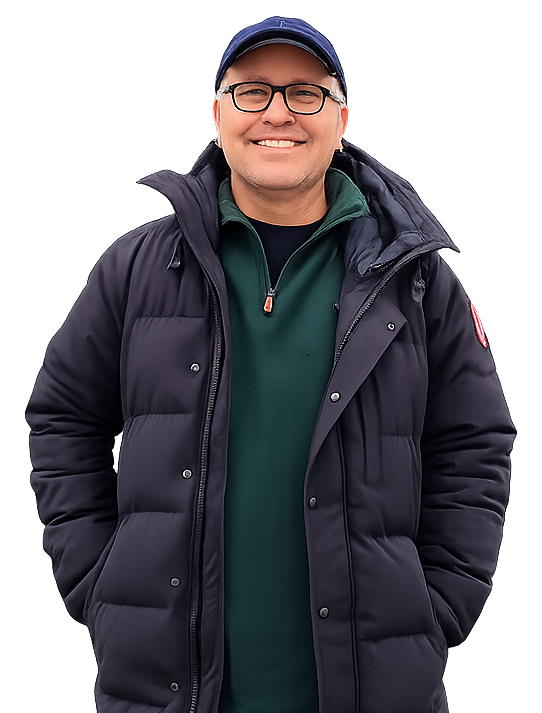
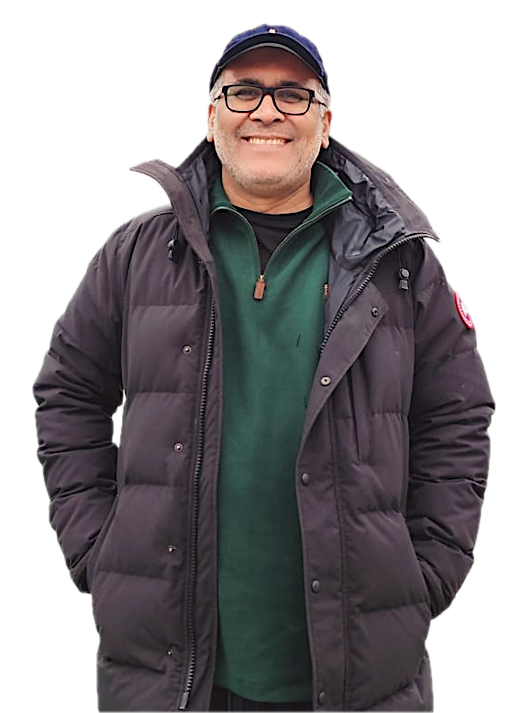
ready for first phase deployement

diff --git a/app/not-found.tsx b/app/not-found.tsx
@@ -1,0 +1,124 @@
+"use client";
+
+import { useRouter } from "next/navigation";
+import { useEffect, useState } from "react";
+
+export default function NotFound() {
+  const router = useRouter();
+  const [mounted, setMounted] = useState(false);
+
+  useEffect(() => {
+    setMounted(true);
+  }, []);
+
+  return (
+    <div className="min-h-screen bg-gradient-to-br from-[#0F2F35] via-[#1B505B] to-[#0F2F35] flex items-center justify-center px-4 overflow-hidden">
+      <div className="text-center relative">
+        {/* Animated Background Circles */}
+        <div className="absolute inset-0 -z-10">
+          <div className="absolute top-1/2 left-1/2 -translate-x-1/2 -translate-y-1/2 w-[300px] h-[300px] bg-[#2F7C8A]/20 rounded-full blur-3xl animate-pulse" />
+          <div className="absolute top-1/2 left-1/2 -translate-x-1/2 -translate-y-1/2 w-[400px] h-[400px] bg-[#1B505B]/10 rounded-full blur-3xl animate-pulse delay-1000" />
+        </div>
+
+        {/* 404 Number with Animation */}
+        <div
+          className={`transition-all duration-1000 ${
+            mounted ? "opacity-100 translate-y-0" : "opacity-0 -translate-y-10"
+          }`}
+        >
+          <h1 className="text-[120px] md:text-[180px] lg:text-[220px] font-bold text-white/10 leading-none select-none">
+            404
+          </h1>
+        </div>
+
+        {/* Content */}
+        <div
+          className={`-mt-16 md:-mt-24 transition-all duration-1000 delay-300 ${
+            mounted ? "opacity-100 translate-y-0" : "opacity-0 translate-y-10"
+          }`}
+        >
+          {/* Animated Icon */}
+          <div className="mb-8 flex justify-center">
+            <div className="relative">
+              <div className="w-24 h-24 bg-[#E8F3F4] rounded-full flex items-center justify-center animate-bounce">
+                <svg
+                  className="w-12 h-12 text-[#1B505B]"
+                  fill="none"
+                  stroke="currentColor"
+                  viewBox="0 0 24 24"
+                >
+                  <path
+                    strokeLinecap="round"
+                    strokeLinejoin="round"
+                    strokeWidth={2}
+                    d="M9.172 16.172a4 4 0 015.656 0M9 10h.01M15 10h.01M21 12a9 9 0 11-18 0 9 9 0 0118 0z"
+                  />
+                </svg>
+              </div>
+              {/* Ripple Effect */}
+              <div className="absolute inset-0 w-24 h-24 bg-[#E8F3F4] rounded-full animate-ping opacity-20" />
+            </div>
+          </div>
+
+          <h2 className="text-3xl md:text-5xl font-bold text-white mb-4">
+            Page Not Found
+          </h2>
+          <p className="text-gray-300 text-lg md:text-xl mb-8 max-w-md mx-auto">
+            Oops! The page you're looking for seems to have gone missing in the
+            digital void.
+          </p>
+
+          {/* Buttons */}
+          <div className="flex flex-col sm:flex-row gap-4 justify-center items-center">
+            <button
+              onClick={() => router.push("/")}
+              className="group relative px-8 py-4 bg-white text-[#1B505B] rounded-lg font-semibold text-lg overflow-hidden transition-all duration-300 hover:scale-105 hover:shadow-2xl"
+            >
+              <span className="relative z-10">Go Home</span>
+              <div className="absolute inset-0 bg-[#E8F3F4] transform scale-x-0 group-hover:scale-x-100 transition-transform origin-left duration-300" />
+            </button>
+
+            <button
+              onClick={() => router.back()}
+              className="px-8 py-4 border-2 border-white/30 text-white rounded-lg font-semibold text-lg hover:bg-white/10 hover:border-white/50 transition-all duration-300 hover:scale-105"
+            >
+              Go Back
+            </button>
+          </div>
+        </div>
+
+        {/* Floating Elements */}
+        <div
+          className={`absolute top-10 left-10 w-4 h-4 bg-[#E8F3F4] rounded-full transition-all duration-1000 delay-500 ${
+            mounted ? "opacity-60 translate-y-0" : "opacity-0 -translate-y-10"
+          }`}
+          style={{ animation: "float 3s ease-in-out infinite" }}
+        />
+        <div
+          className={`absolute bottom-20 right-10 w-6 h-6 bg-[#2F7C8A] rounded-full transition-all duration-1000 delay-700 ${
+            mounted ? "opacity-40 translate-y-0" : "opacity-0 translate-y-10"
+          }`}
+          style={{ animation: "float 4s ease-in-out infinite reverse" }}
+        />
+        <div
+          className={`absolute top-1/3 right-20 w-3 h-3 bg-white rounded-full transition-all duration-1000 delay-900 ${
+            mounted ? "opacity-50 translate-y-0" : "opacity-0 -translate-y-10"
+          }`}
+          style={{ animation: "float 5s ease-in-out infinite" }}
+        />
+      </div>
+
+      <style jsx>{`
+        @keyframes float {
+          0%,
+          100% {
+            transform: translateY(0px);
+          }
+          50% {
+            transform: translateY(-20px);
+          }
+        }
+      `}</style>
+    </div>
+  );
+}

diff --git a/components/BlogSection.tsx b/components/BlogSection.tsx
@@ -1,0 +1,107 @@
+"use client";
+
+import { useState } from "react";
+import { X } from "lucide-react";
+
+export default function VlogSection() {
+  const [selectedVideo, setSelectedVideo] = useState<string | null>(null);
+
+  const videos = [
+    {
+      id: 1,
+      title: "EDI Integration Best Practices",
+      thumbnail: "https://img.youtube.com/vi/Hd4Xony9vpM/maxresdefault.jpg",
+      videoId: "Hd4Xony9vpM",
+    },
+    {
+      id: 2,
+      title: "ERP System Implementation Guide",
+      thumbnail: "https://img.youtube.com/vi/N3g8-aiDtW0/maxresdefault.jpg",
+      videoId: "N3g8-aiDtW0",
+    },
+    {
+      id: 3,
+      title: "Supply Chain Automation Solutions",
+      thumbnail: "https://img.youtube.com/vi/i8nr_dKCEgk/maxresdefault.jpg",
+      videoId: "i8nr_dKCEgk",
+    },
+  ];
+
+  return (
+    <section id="vlogs" className="w-full bg-[#E8F3F4] py-20">
+      <div className="container mx-auto px-6">
+        {/* Section Header */}
+        <div className="text-center mb-14">
+          <h2 className="text-3xl md:text-4xl font-bold text-[#12373F] mb-4">
+            Latest Insights & Tutorials
+          </h2>
+          <p className="text-gray-600 max-w-2xl mx-auto">
+            Watch our expert videos on EDI integration, ERP systems, and supply
+            chain automation best practices.
+          </p>
+        </div>
+
+        {/* Video Grid */}
+        <div className="grid grid-cols-1 md:grid-cols-2 lg:grid-cols-3 gap-8">
+          {videos.map((video) => (
+            <div
+              key={video.id}
+              className="bg-white rounded-2xl overflow-hidden shadow-md"
+            >
+              {/* Thumbnail */}
+              <div 
+                className="relative aspect-video overflow-hidden cursor-pointer group hover:shadow-2xl transition-all duration-300 transform hover:-translate-y-2"
+                onClick={() => setSelectedVideo(video.videoId)}
+              >
+                <img
+                  src={video.thumbnail}
+                  alt={video.title}
+                  className="w-full h-full object-cover group-hover:scale-110 transition-transform duration-300"
+                />
+                {/* Play Button Overlay */}
+                <div className="absolute inset-0 bg-[#1B505B]/40 flex items-center justify-center group-hover:bg-[#1B505B]/60 transition">
+                  <div className="w-16 h-16 bg-white rounded-full flex items-center justify-center group-hover:scale-110 transition-transform">
+                    <div className="w-0 h-0 border-t-8 border-t-transparent border-l-12 border-l-[#1B505B] border-b-8 border-b-transparent ml-1" />
+                  </div>
+                </div>
+              </div>
+            </div>
+          ))}
+        </div>
+      </div>
+
+      {/* Video Popup Modal */}
+      {selectedVideo && (
+        <div
+          className="fixed inset-0 bg-black/80 z-50 flex items-center justify-center p-4"
+          onClick={() => setSelectedVideo(null)}
+        >
+          <div
+            className="relative w-full max-w-4xl aspect-video bg-black rounded-lg overflow-hidden"
+            onClick={(e) => e.stopPropagation()}
+          >
+            {/* Close Button */}
+            <button
+              onClick={() => setSelectedVideo(null)}
+              className="absolute top-4 right-4 z-10 bg-white/90 hover:bg-white rounded-full p-2 transition"
+            >
+              <X size={24} className="text-[#1B505B]" />
+            </button>
+
+            {/* YouTube Iframe */}
+            <iframe
+              width="100%"
+              height="100%"
+              src={`https://www.youtube.com/embed/${selectedVideo}?autoplay=1`}
+              title="YouTube video player"
+              frameBorder="0"
+              allow="accelerometer; autoplay; clipboard-write; encrypted-media; gyroscope; picture-in-picture"
+              allowFullScreen
+              className="w-full h-full"
+            />
+          </div>
+        </div>
+      )}
+    </section>
+  );
+}

diff --git a/components/Navbar.tsx b/components/Navbar.tsx
@@ -45,16 +45,40 @@ export default function Navbar() {
     return () => window.removeEventListener('scroll', handleScroll);
   }, [pathname]);
 
-  const handleMenuClick = (item) => {
-    setActiveItem(item);
-    if (item === 'Services') {
-      const section = document.getElementById('consulting-services');
+  const handleContactClick = () => {
+    if (pathname !== '/') {
+      router.push('/#subscribe');
+    } else {
+      const section = document.getElementById('subscribe');
       if (section) {
         section.scrollIntoView({ behavior: 'smooth' });
-        setIsOpen(false);
-      } else {
-        router.push('/#consulting-services');
       }
+    }
+    setIsOpen(false);
+  };
+
+  const handleMenuClick = (item: string) => {
+    setActiveItem(item);
+    if (item === 'Services') {
+      if (pathname !== '/') {
+        router.push('/#consulting-services');
+      } else {
+        const section = document.getElementById('consulting-services');
+        if (section) {
+          section.scrollIntoView({ behavior: 'smooth' });
+        }
+      }
+      setIsOpen(false);
+    } else if (item === 'Blogs') {
+      if (pathname !== '/') {
+        router.push('/#vlogs');
+      } else {
+        const section = document.getElementById('vlogs');
+        if (section) {
+          section.scrollIntoView({ behavior: 'smooth' });
+        }
+      }
+      setIsOpen(false);
     } else if (item === 'Home') {
       router.push('/');
     } else if (item === 'About') {
@@ -95,7 +119,7 @@ export default function Navbar() {
           </div>
 
           {/* Contact Button */}
-          <button onClick={() => router.push('/contact')} className="hidden min-[760px]:flex items-center gap-2 font-medium hover:opacity-80 transition-opacity text-xl xl:text-[24px]">
+          <button onClick={handleContactClick} className="hidden min-[760px]:flex items-center gap-2 font-medium hover:opacity-80 transition-opacity text-xl xl:text-[24px]">
             Contact us <span>→</span>
           </button>
 
@@ -123,7 +147,7 @@ export default function Navbar() {
                   {item}
                 </button>
               ))}
-              <button onClick={() => router.push('/contact')} className="block hover:opacity-80 transition-opacity w-full text-left">
+              <button onClick={handleContactClick} className="block hover:opacity-80 transition-opacity w-full text-left">
                 Contact us <span>→</span>
               </button>
             </div>

diff --git a/components/HeroSection.tsx b/components/HeroSection.tsx
@@ -6,6 +6,17 @@ import HeroTabs from "@/components/HeroTabs";
 export default function HeroSection() {
   return (
     <section className="relative bg-[#1B505B] overflow-hidden pt-[88px] md:max-h-[760px] md:min-h-[640px] lg:min-h-[810px] flex">
+      {/* Blurred Random Squares */}
+      <div className="absolute inset-0 pointer-events-none">
+        <div className="absolute top-[10%] left-[0%] w-20 h-20 md:w-20 md:h-20 lg:w-48 lg:h-48 bg-[#0F2F35]/40 blur-xl" />
+
+        <div className="absolute top-[70%] left-[5%] w-24 h-24 md:w-32 md:h-32 bg-[#0F2F35]/30 blur-xl" />
+        <div className="absolute top-[20%] right-[15%] w-28 h-28 md:w-36 md:h-36 lg:w-44 lg:h-44 bg-[#0F2F35]/35 blur-xl" />
+        <div className="absolute bottom-[5%] right-[20%] w-20 h-20 md:w-28 md:h-28 bg-[#0F2F35]/40 blur-xl" />
+        <div className="absolute top-[35%] left-[40%] w-16 h-16 md:w-24 md:h-24 bg-[#0F2F35]/25 blur-xl max-[760px]:hidden" />
+        <div className="absolute top-[40%] left-[85%] w-32 h-32 md:w-40 md:h-40 lg:w-48 lg:h-48 bg-[#0F2F35]/40 blur-xl" />
+      </div>
+      
       {/* CONTENT */}
       <div className="container mx-auto px-6 py-24 max-[760px]:px-4 max-[760px]:py-8 relative z-20  md:flex md:items-center">
         <div className="gap-12 items-center w-full max-[760px]:flex max-[760px]:flex-col">
@@ -44,7 +55,7 @@ export default function HeroSection() {
             <div className="absolute right-0 top-[88px] z-[-1] max-[760px]:hidden">
               <div className="relative flex items-end justify-end">
                 <Image
-                  src="/client_img_copy.png"
+                  src="/client_img.png"
                   alt="Ather Shahidi"
                   width={500}
                   height={700}

diff --git a/app/page.tsx b/app/page.tsx
@@ -11,6 +11,8 @@ import ProcessFlowSection from '@/components/ProcessFlowSection';
 import TradingPartnersSection from '@/components/TradingPartnersSection';
 import ERPIntegrationsSection from '@/components/ERPIntegrationsSection';
 import EDITransactionsSection from '@/components/EDITransactionsSection';
+import BlogSection from '@/components/BlogSection';
+
 export default function Home() {
   return (
     <main>
@@ -25,6 +27,7 @@ export default function Home() {
       <EDITransactionsSection/>
       {/* <ClientSuccess /> */}
       {/* <ProjectsSection/> */}
+      <BlogSection/>
       <SubscribeSection/>
       <Footer/>
     </main>

diff --git a/components/HeroTabs.tsx b/components/HeroTabs.tsx
@@ -8,8 +8,8 @@ const inriaSans = Inria_Sans({
 });
 
 export default function HeroTabs() {
-  const [activeTab, setActiveTab] = useState("edi");
-  const [expandedAccordion, setExpandedAccordion] = useState("edi");
+  const [activeTab, setActiveTab] = useState<"edi" | "erp" | "trading">("edi");
+  const [expandedAccordion, setExpandedAccordion] = useState<"edi" | "erp" | "trading">("edi");
 
   const tabData = {
     edi: [

diff --git a/components/SubscribeSection.tsx b/components/SubscribeSection.tsx
@@ -5,7 +5,7 @@ import { ArrowRight } from "lucide-react";
 
 export default function SubscribeSection() {
   return (
-    <section className="w-full py-16 bg-[#F5F7F8]">
+    <section id="subscribe" className="w-full py-16 bg-[#F5F7F8]">
       <div className="container mx-auto px-6">
 
         {/* CTA Container */}

diff --git a/components/Footer.tsx b/components/Footer.tsx
@@ -8,7 +8,7 @@ import {
 } from "react-icons/fa";
 
 export default function Footer() {
-  const handleLinkClick = (sectionId) => {
+  const handleLinkClick = (sectionId: string) => {
     const section = document.getElementById(sectionId);
     if (section) {
       section.scrollIntoView({ behavior: 'smooth' });
